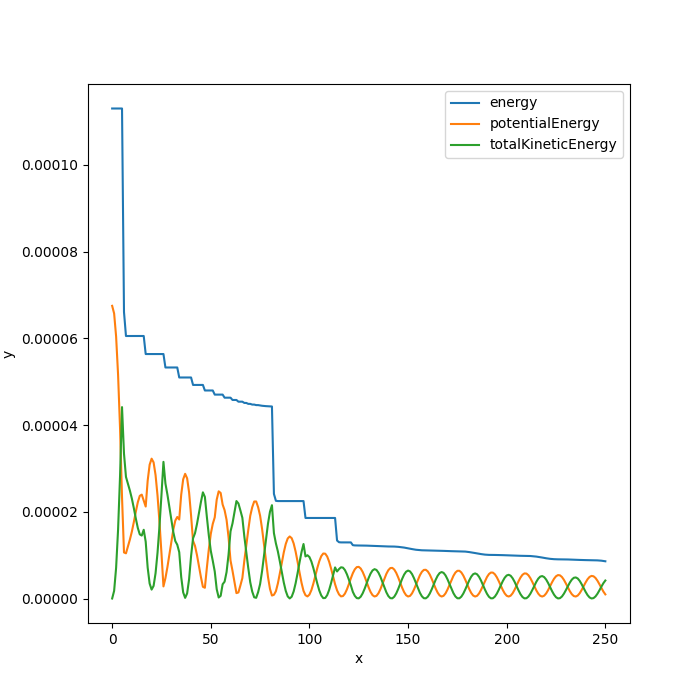
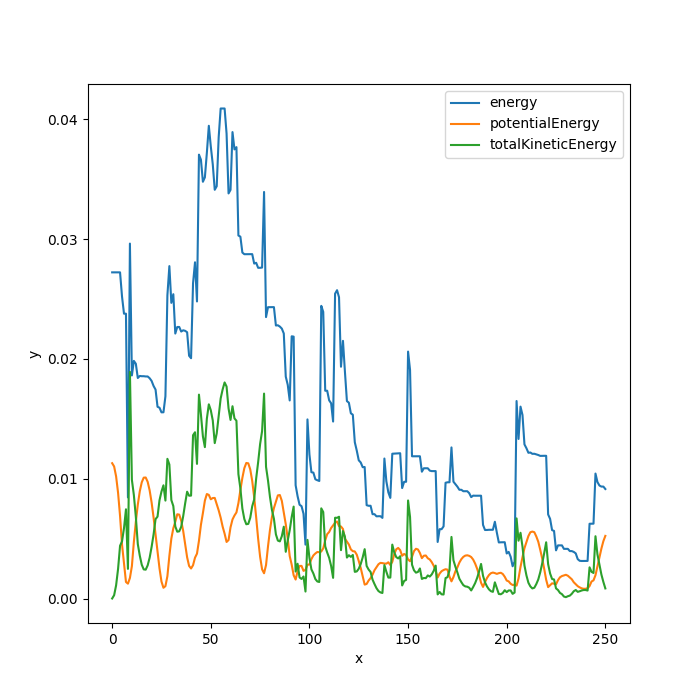
wip

diff --git a/main.cpp b/main.cpp
@@ -25,7 +25,7 @@ int main(int argc, char **argv) {
     int i, j, k;
     // COLLISIONS SETTINGS
     auto containerCollisionSettings = new CollisionSettings(.9,.6,1000.,1000000.);
-    auto grainCollisionSettings = new CollisionSettings(.9,.6,8000.,1000000.);
+    auto grainCollisionSettings = new CollisionSettings(.9,.6,1000.,1000.);
 
     // VIDEO OPTIONS
     int fps = 25;
@@ -33,29 +33,39 @@ int main(int argc, char **argv) {
     double totalTime = 10;
     int totalFrames = (int) ((totalTime - tStartCapture) * fps);
     double recTime;
-    double dt = 1. * 0.000001;
+    double dt = .5 * 0.000001;
 
     GrainPrinter grainPrinter("datas/");
 
     // GRAINS
-    int numberOfGrains = 2;
-    double radius = 0.005;
+    int paletteGrains = 0;
+    int nPalettes = 3;
+    int totalPalettesGrains = nPalettes * paletteGrains;
+    double paletteRelativeWidth = .5;
+    double paletteGrainRadius = .01;
+
+    int numberOfGrains = 3;
+    int numberOfGrainsWithPalettes = numberOfGrains + (totalPalettesGrains);
+    double radius = 0.02;
     double mass;
     double rho = 2000.;
-    auto *grains = new Grain[numberOfGrains];
+    auto *grains = new Grain[numberOfGrainsWithPalettes];
     int numberOfPlacedGrains = 0;
     int numberOfOverlaps;
 
     //this setups the getRadius distribution
     double radiusMean = radius;
-    std::uniform_real_distribution<double> radiusDistribution(radiusMean - (radiusMean / 2),
-                                                              radiusMean + (radiusMean / 2));
+    std::uniform_real_distribution<double> radiusDistribution(radiusMean - (radiusMean / 3),
+                                                              radiusMean + (radiusMean / 3));
 
 
     //container
     double containerRadius = .3;
+    double containerOmega = .3*M_PI;
+    containerOmega = 0.;
     Vector2 containerCenter(containerRadius);
-    Container container(containerRadius, containerCenter);
+    Container container(containerRadius, containerCenter,containerOmega);
+
 
     //DOMAIN
     double xDomain = 2. * containerRadius * 1.2;
@@ -63,8 +73,24 @@ int main(int argc, char **argv) {
     Domain domain(xDomain, yDomain);
     domain.printDomainInfos("datas/domain.txt");
 
-    //Placing the grains
-    while (numberOfPlacedGrains < numberOfGrains) {
+    //Placing the grains for the palettes
+
+    for (int m = 0; m < nPalettes; ++m) {
+        double direction = (2.*M_PI/ (double) nPalettes) * m;
+        double positionRadius = containerRadius;
+        double dPositionRadius = containerRadius*paletteRelativeWidth/(double)paletteGrains;
+        for (int l = 0; l < paletteGrains; ++l) {
+            mass = 4. / 3. * M_PI * pow(radius, 3) * rho;
+            Vector2 paletteGrainPosition(positionRadius * cos(direction), positionRadius * sin(direction));
+            paletteGrainPosition = paletteGrainPosition + containerCenter;
+            grains[numberOfPlacedGrains].initDisk(numberOfPlacedGrains, paletteGrainRadius, mass, paletteGrainPosition, Vector2(0.));
+            numberOfPlacedGrains++;
+            positionRadius -= dPositionRadius;
+        }
+    }
+
+
+    while (numberOfPlacedGrains < numberOfGrainsWithPalettes) {
         radius = fabs(radiusDistribution(gen));
         numberOfOverlaps = 0;
         //We choose a random direction and a random radius
@@ -72,8 +98,8 @@ int main(int argc, char **argv) {
         double randomRadius = (double) sqrt(uniformRealDistribution(gen)) * (containerRadius - 2. * radius) *
                               .95;
         Vector2 randomPosition(randomRadius * cos(direction), randomRadius * sin(direction));
-        randomPosition.setComponents( (-.2)+(.2*numberOfPlacedGrains),0);
-//        randomPosition.setComponents(-.1,0.);
+//        randomPosition.setComponents( (-.2)+(.2*numberOfPlacedGrains),0);
+//        randomPosition.setComponents(0.,0.);
         randomPosition = randomPosition + containerCenter;
         // We check for an overlap
         for (i = 0; i < numberOfPlacedGrains; i++) {
@@ -100,7 +126,7 @@ int main(int argc, char **argv) {
     }
 
     //record initial state
-    for (i = 0; i < numberOfGrains; i++) {
+    for (i = 0; i < numberOfGrainsWithPalettes; i++) {
         grainPrinter.print(grains[i], 0);
     }
     std::cout << "Initial state in saved" << std::endl;
@@ -108,7 +134,7 @@ int main(int argc, char **argv) {
 
     //linked cells
     double cellSize = 2.2 * radiusMean;
-    cellSize = domain.getX()/1.;
+//    cellSize = domain.getX()/1.;
     int nCellX = (int) ((domain.getX()) / cellSize);
     int nCellY = (int) ((domain.getY()) / cellSize);
     int nCell = nCellX * nCellY;
@@ -155,8 +181,10 @@ int main(int argc, char **argv) {
     int cellIndex, hol;
     int neighborCellIndex, nNeighbors;
     double t = 0.;
-
+    auto t1_image = omp_get_wtime();
+    int iteration = 0;
     while (true) {
+        iteration++;
         t += dt;
         if(t > totalTime){
             break;
@@ -168,7 +196,7 @@ int main(int argc, char **argv) {
         }
 
         //loop on grains
-        for (i = 0; i < numberOfGrains; i++) {
+        for (i = 0; i < numberOfGrainsWithPalettes; i++) {
 
             /* Leap frog step 1 */
             grains[i].updatePosition(dt / 2.);
@@ -180,7 +208,6 @@ int main(int argc, char **argv) {
                 exit(1);
             }
 
-//            std::cout << grains[i].getY() << std::endl;
             grains[i].setLinkedCell(cellIndex);
             hol = cells[cellIndex].getHeadOfList();
             grains[i].setLinkedDisk(hol);
@@ -191,14 +218,17 @@ int main(int argc, char **argv) {
 
 
         /*** contact detection and forces ***/
-        for (i = 0; i < numberOfGrains; i++) {
+        for (i = 0; i < numberOfGrainsWithPalettes; i++) {
 
 //             In cell
             cellIndex = grains[i].linkedCell();
             j = cells[cellIndex].getHeadOfList();
             while (j != -9) {
                 if (i < j) {
-                    computeCollisionWithGrain(&grains[i], &grains[j], grainCollisionSettings);
+                    if (i >= totalPalettesGrains || j >= totalPalettesGrains)
+                    {
+                        computeCollisionWithGrain(&grains[i], &grains[j], grainCollisionSettings);
+                    }
                 }
                 j = grains[j].linkedDisk();
             }
@@ -206,33 +236,56 @@ int main(int argc, char **argv) {
             // In neighbor cells
             nNeighbors = cells[cellIndex].numberOfNeighbors();
             for (k = 0; k < nNeighbors; k++) {
-
                 neighborCellIndex = cells[cellIndex].neighbor(k);
                 j = cells[neighborCellIndex].getHeadOfList();
                 while (j != -9) {
-                    computeCollisionWithGrain(&grains[i], &grains[j], grainCollisionSettings);
+                    if (i >= totalPalettesGrains || j >= totalPalettesGrains)
+                    {
+                        computeCollisionWithGrain(&grains[i], &grains[j], grainCollisionSettings);
+                    }
                     j = grains[j].linkedDisk();
                 }
             }
 
             //Collisions with the container
-            computeCollisionWithContainer(&grains[i], &container, containerCollisionSettings);
+            if (i >= totalPalettesGrains){
+                computeCollisionWithContainer(&grains[i], &container, containerCollisionSettings);
+            }
 
         }
 
-        //update velocity and position
-        for (i = 0; i < numberOfGrains; i++) {
+        //update velocity and position for the active grains
+        for (i = totalPalettesGrains; i < numberOfGrainsWithPalettes; i++) {
             grains[i].updateVelocity(dt);
             grains[i].updatePosition(dt / 2.);
+        }
+
+        double dTheta = containerOmega*dt;
+        for (int m = 0; m < nPalettes; ++m) {
+            double direction = ((2.*M_PI/ (double) nPalettes) * m ) - dTheta*iteration;
+            double positionRadius = containerRadius;
+            double dPositionRadius = containerRadius*paletteRelativeWidth/(double)paletteGrains;
+            for (int l = 0; l < paletteGrains; ++l) {
+                Vector2 paletteGrainPosition(positionRadius * cos(direction), positionRadius * sin(direction));
+                Vector2 paletteGrainVelocity(paletteGrainPosition.getY()*containerOmega,-paletteGrainPosition.getX()*containerOmega);
+                paletteGrainPosition = paletteGrainPosition + containerCenter;
+                grains[l+m*paletteGrains].setPosition(paletteGrainPosition);
+                grains[l+m*paletteGrains].setVelocity(paletteGrainVelocity);
+                positionRadius -= dPositionRadius;
+            }
         }
 
         //record
         recTime = t - tStartCapture;
         if (recTime >= 0.) {
             if ((int) ((recTime + dt) * fps) > (int) (recTime * fps)) {
-                for (i = 0; i < numberOfGrains; i++) {
+                for (i = 0; i < numberOfGrainsWithPalettes; i++) {
                     grainPrinter.print(grains[i], (int) ((recTime + dt) * fps));
+
                 }
+                auto t2_image = omp_get_wtime();
+                std::cout << "printing image " << (int) ((recTime + dt) * fps) << " | " <<  t2_image - t1_image << " seconds" << std::endl;
+                t1_image = omp_get_wtime();
             }
         }
     }

diff --git a/collisions.cpp b/collisions.cpp
@@ -11,6 +11,7 @@
 
 void computeCollisionWithGrain(Grain *pGrain1, Grain *pGrain2, CollisionSettings *collisionSettings) {
     double delta = getDistanceBetweenGrains(*pGrain1, *pGrain2);
+
     if (delta < 0) {
         Vector2 normalVector = (pGrain1->getPosition() - pGrain2->getPosition()).normalize();
         double vx = pGrain1->getVx() - pGrain2->getVx()
@@ -70,8 +71,10 @@ void computeCollisionWithContainer(Grain *pGrain1, Container *container, Collisi
                    getDistanceBetweenVectors(pGrain1->getPosition(), container->getCenter());
     if (delta < 0) {
         Vector2 normalVector = (container->getCenter() - pGrain1->getPosition()).normalize();
-        double vx = pGrain1->getVx() + pGrain1->getRadius() * pGrain1->getOmega() * normalVector.getY();
-        double vy = pGrain1->getVy() - pGrain1->getRadius() * pGrain1->getOmega() * normalVector.getX();
+        double radialSpeed = container->getRadialSpeed();
+        Vector2 containerSpeedVector(-radialSpeed*normalVector.getY(),radialSpeed*normalVector.getX());
+        double vx = pGrain1->getVx() - containerSpeedVector.getX() + pGrain1->getRadius() * pGrain1->getOmega() * normalVector.getY();
+        double vy = pGrain1->getVy() - containerSpeedVector.getY() - pGrain1->getRadius() * pGrain1->getOmega() * normalVector.getX();
 
         Vector2 velocityAtContactPoint(vx, vy);
         Vector2 normalVelocity = projectOntoVector(velocityAtContactPoint,normalVector).getNorm() * normalVector;

diff --git a/visualizeData.py b/visualizeData.py
@@ -24,7 +24,7 @@ for i in range(0, totalFrames):
                                  dtype=types,
                                  names=["ID", 'x', 'y', 'vx', 'vy', 'theta', 'radius']))
 showingFrame = 0
-scat = plt.scatter(data[showingFrame]["x"], data[showingFrame]['y'], alpha=0.5, s=data[0]['radius'] * 1 * 100000)
+scat = plt.scatter(data[showingFrame]["x"], data[showingFrame]['y'], alpha=0.5, s=data[0]['radius']*data[0]['radius']*270000, c='red')
 plt.title('Scatter plot test')
 # plt.gca().set_aspect('equal', adjustable='box')
 plt.axis("equal")
@@ -37,9 +37,9 @@ plt.xlim(-0.2 * domain["x"], domain['x'] * 1.2)
 plt.ylim(-0.2 * domain["y"], domain['y'] * 1.2)
 plt.xlabel('x')
 plt.ylabel('y')
-a_circle = plt.Circle((.3, .4), .005)
+# a_circle = plt.Circle((.3, .4), .005)
+# plt.gca().add_artist(a_circle)
 b_circle = plt.Circle((.3, .3), .3, fill=False)
-plt.gca().add_artist(a_circle)
 plt.gca().add_artist(b_circle)
 
 

diff --git a/Container.cpp b/Container.cpp
@@ -21,8 +21,21 @@ void Container::setCenter(const Vector2 &centerVector) {
     Container::center = centerVector;
 }
 
-Container::Container(double radiusValue, Vector2 centerVector) {
+Container::Container(double radiusValue, Vector2 centerVector, double omegaValue) {
     Container::setRadius(radiusValue);
+    Container::setOmega(omegaValue);
     Container::setCenter(centerVector);
+}
+
+double Container::getOmega() const {
+    return omega;
+}
+
+void Container::setOmega(double omega) {
+    Container::omega = omega;
+}
+
+double Container::getRadialSpeed() {
+    return Container::omega * Container::getRadius();
 }
 

diff --git a/Container.h b/Container.h
@@ -12,16 +12,24 @@ class Container {
 private:
     double radius{};
     Vector2 center;
+    double omega;
+public:
+    double getOmega() const;
+
+    void setOmega(double omega);
+
 public:
     const Vector2 &getCenter() const;
 
     void setCenter(const Vector2 &centerVector);
 
-    Container(double radiusValue, Vector2 centerVector);
+    Container(double radiusValue, Vector2 centerVector, double omegaValue);
 
     double getRadius() const;
 
     void setRadius(double radiusValue);
+
+    double getRadialSpeed();
 };
 
 #endif //TRAVAIL2_CONTAINER_H
